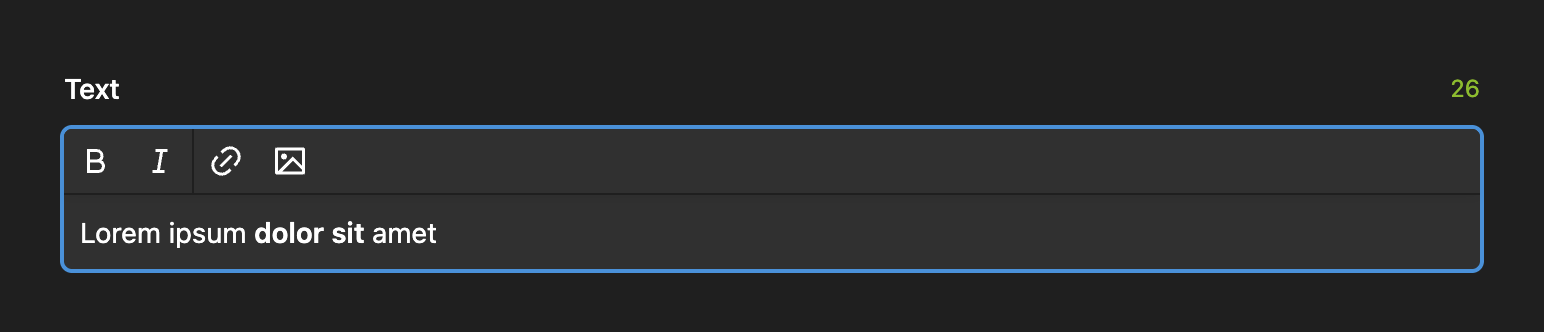
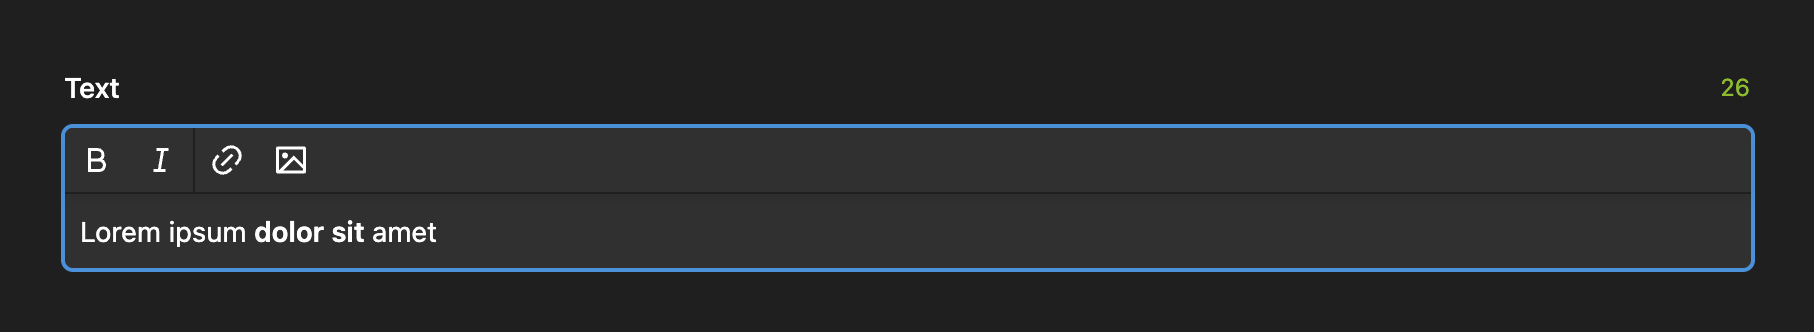
Reshoot the README screenshots at the hero width

diff --git a/README.md b/README.md
@@ -26,7 +26,7 @@ fields:
 
 ## Toolbar
 
-<img src=".github/panel-toolbar.png" width="772" alt="A Tiptap field with every toolbar button: headings, bold, italic, strike, code, link, file, lists, blockquote, code block, horizontal rule and remove formatting.">
+<img src=".github/panel-toolbar.png" width="907" alt="A Tiptap field with every toolbar button: headings, bold, italic, strike, code, link, file, lists, blockquote, code block, horizontal rule and remove formatting.">
 
 ```yml
 buttons:
@@ -54,21 +54,21 @@ buttons:
 
 With `inline: true` the field has no paragraphs and hides the block buttons. Render it with `kirbytextInline()`.
 
-<img src=".github/panel-inline.png" width="772" alt="An inline field: only bold, italic, link and file buttons.">
+<img src=".github/panel-inline.png" width="907" alt="An inline field: only bold, italic, link and file buttons.">
 
 ## KirbyTags as pills
 
 Image, file, video, link, email and tel tags show as pills, like in Kirby's link field. A pill turns red when its page or file is gone. Other tags, such as `(date: year)` or tags from your own plugins, stay text.
 
-<img src=".github/panel-pill-states.png" width="772" alt="Pills for a short URL, a long URL shortened to its host and last segment, an email address, a missing image in red and a phone number.">
+<img src=".github/panel-pill-states.png" width="907" alt="Pills for a short URL, a long URL shortened to its host and last segment, an email address, a missing image in red and a phone number.">
 
 Click a pill to edit it. Drag it to move it. Right-click it to open the link, or the page or file in the Panel. With the keyboard, select it with the arrow keys and press Enter.
 
-<img src=".github/panel-pill-selected.png" width="772" alt="The image pill selected, with an outline.">
+<img src=".github/panel-pill-selected.png" width="907" alt="The image pill selected, with an outline.">
 
 To edit the tags as text, set `kirbytags: true` on the field, or `'medienbaecker.tiptap.kirbytags' => true` in the config. Cmd+Click on a tag then opens its page or file.
 
-<img src=".github/panel-kirbytags-true.png" width="772" alt="The same text with kirbytags: true, the tags shown as highlighted text.">
+<img src=".github/panel-kirbytags-true.png" width="907" alt="The same text with kirbytags: true, the tags shown as highlighted text.">
 
 ## Link and file dialogs
 
@@ -116,17 +116,17 @@ uploads: false
 
 Structure and object fields preview the text with pills.
 
-<img src=".github/panel-preview.png" width="772" alt="A structure field whose table preview shows formatted text with pills.">
+<img src=".github/panel-preview.png" width="907" alt="A structure field whose table preview shows formatted text with pills.">
 
 The plugin adds a `tiptap` block for the blocks field.
 
-<img src=".github/panel-blocks.png" width="772" alt="A blocks field with a tiptap block with pills.">
+<img src=".github/panel-blocks.png" width="907" alt="A blocks field with a tiptap block with pills.">
 
 ## Special characters
 
 Type `(-)` for a soft hyphen and `(_)` for a non-breaking space. The editor shows both.
 
-<img src=".github/panel-special.png" width="772" alt="Soft hyphens shown as thin marks inside a long German compound, and a visible non-breaking space.">
+<img src=".github/panel-special.png" width="907" alt="Soft hyphens shown as thin marks inside a long German compound, and a visible non-breaking space.">
 
 ## Keyboard shortcuts
 
@@ -195,7 +195,7 @@ text:
 
 Plugins can add buttons, shortcuts and Tiptap extensions, and change the built-in ones. [`extension-examples/`](extension-examples) has working examples.
 
-<img src=".github/panel-extensions.png" width="772" alt="A field with the callout example button and node, and a long word underlined by the long-words example.">
+<img src=".github/panel-extensions.png" width="907" alt="A field with the callout example button and node, and a long word underlined by the long-words example.">
 
 Register everything in your plugin's `index.js`:
 
